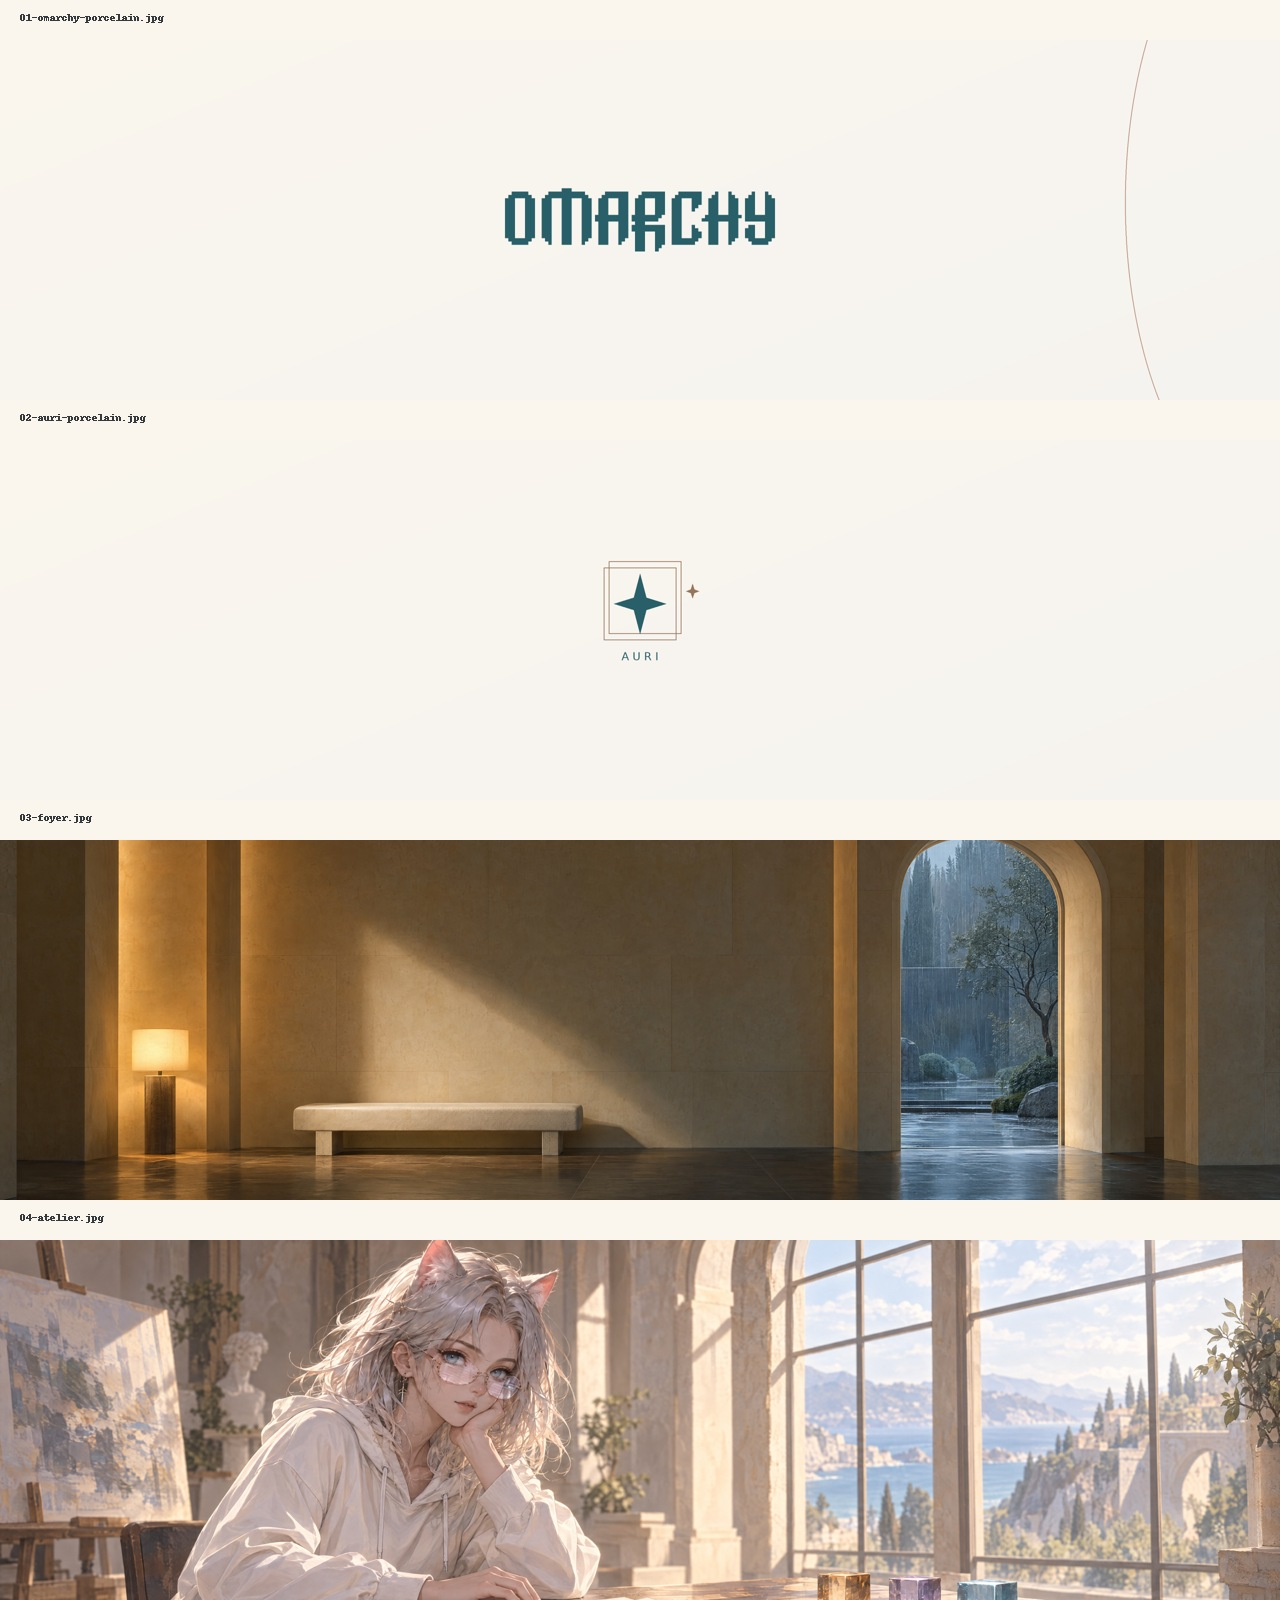
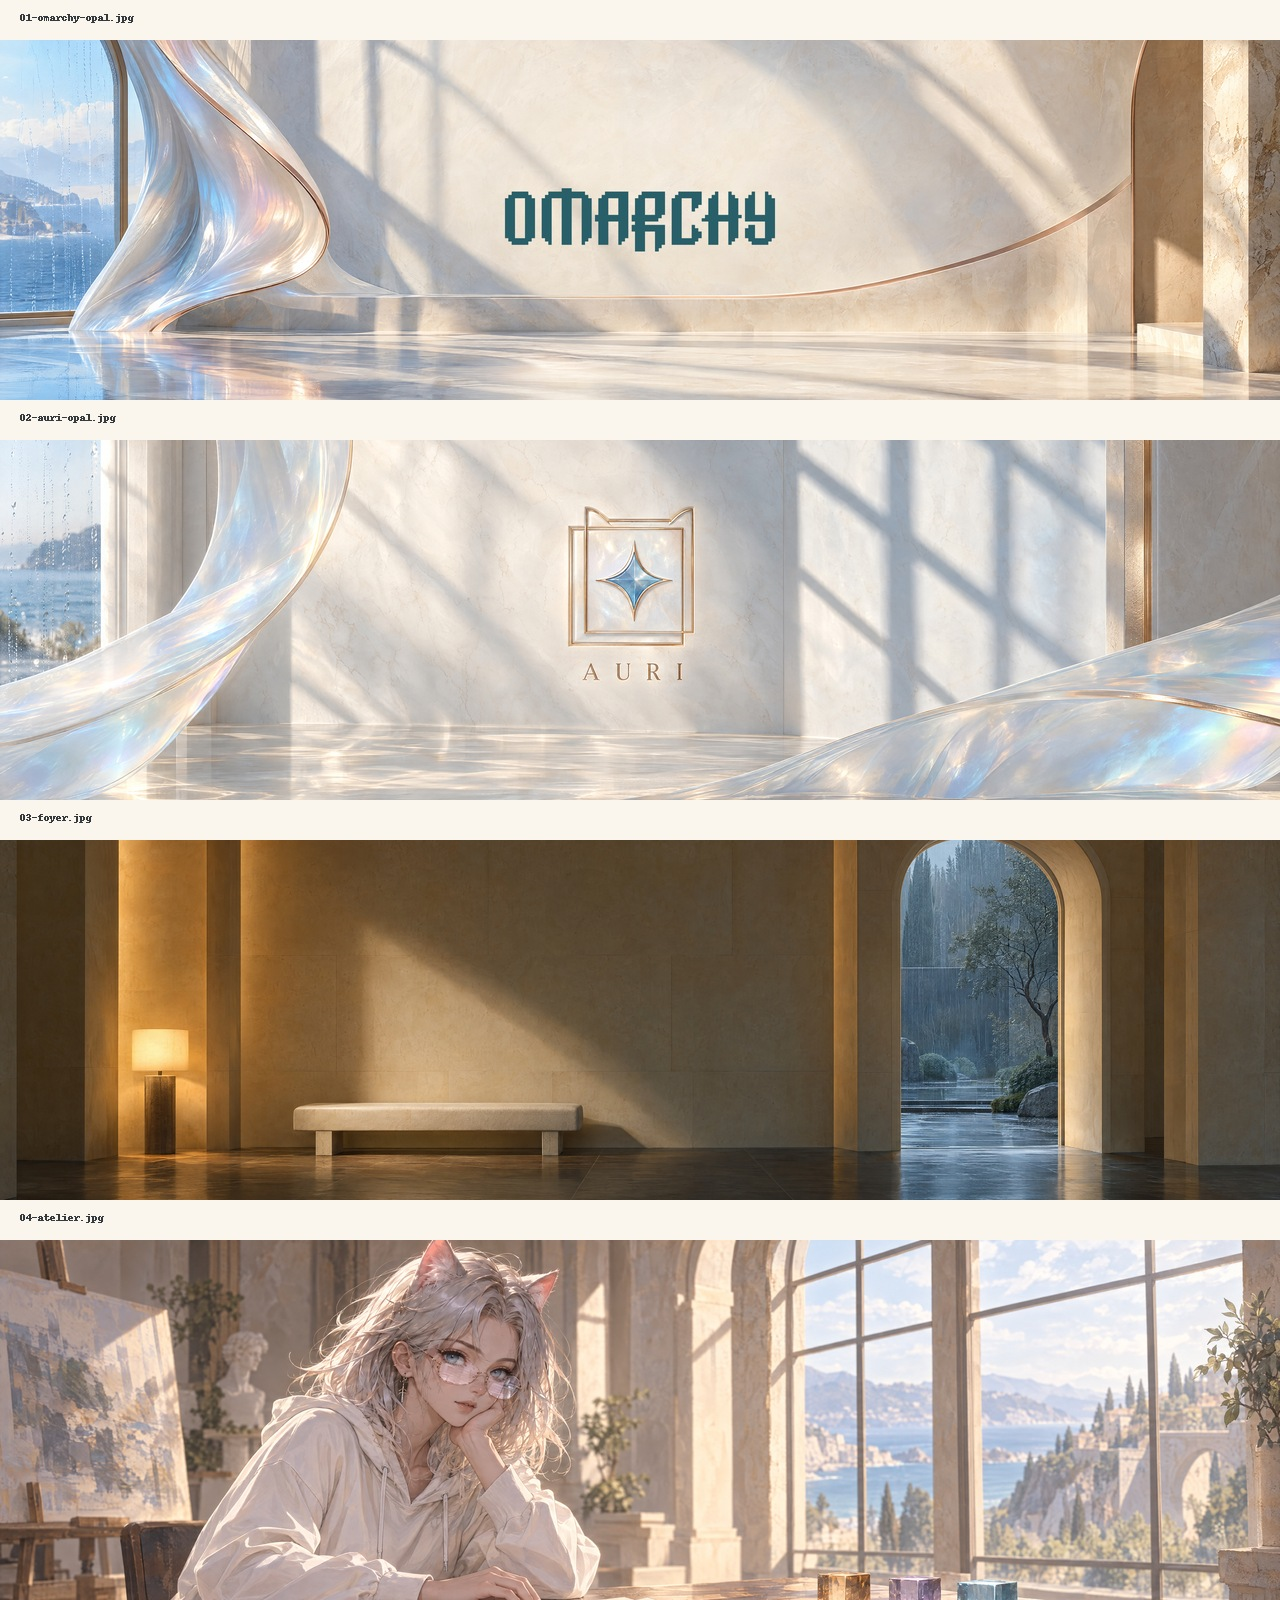
Give Auri Light opal glass, rainlight and rose-gold depth

diff --git a/README.md b/README.md
@@ -20,10 +20,10 @@ Warm near-white backgrounds and darker, chromatic ANSI colors preserve readable 
 
 ## Four wallpapers
 
-- **Omarchy Porcelain**: genuine upstream wordmark in ocean ink on a locally rendered ivory field, restrained rose-gold arc.
-- **Auri Porcelain**: locally drawn vector-like star and offset-square emblem; no AI regeneration or image inversion.
+- **Omarchy Opal**: genuine upstream wordmark in ocean ink, composited over pearl glass, rainlight, warm stone and rose-gold inlay.
+- **Auri Opal**: star and offset-square emblem in luminous porcelain, framed by broad iridescent glass forms and window shadows.
 - **Foyer** and **Atelier**: existing Sunburst Max artwork, reused unchanged. These are the warm architectural/character alternatives; the logos are the quieter choices. Atelier remains a tight panoramic portrait crop.
 
-All are 5120×1440 (32:9). Logo wallpapers are rendered at final dimensions. Scene originals were generated at 3840×1280, cropped and upscaled—not native 5K. No new image API spend was incurred for this variant. The original dark Auri collection remains independent.
+All are 5120×1440 (32:9). Sunburst Max originals were generated at 3840×1280, cropped and upscaled—not native 5K. The two opal logo compositions replace the initial flat porcelain designs; their stable filenames retain the porcelain label for continuity. Rich materials, simple forms, no image inversion. The original dark Auri collection remains independent.
 
 Omarchy logo attribution and upstream license are retained in `credits/`. No official endorsement or blanket license to third-party marks is implied.
